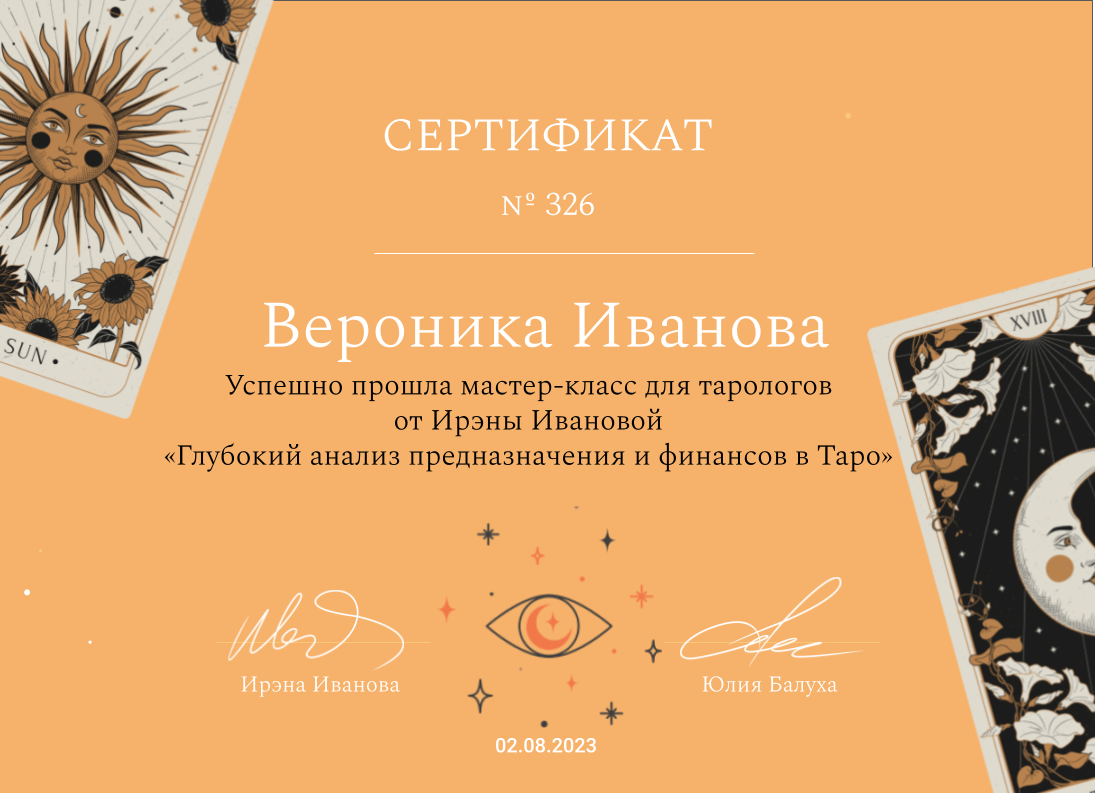
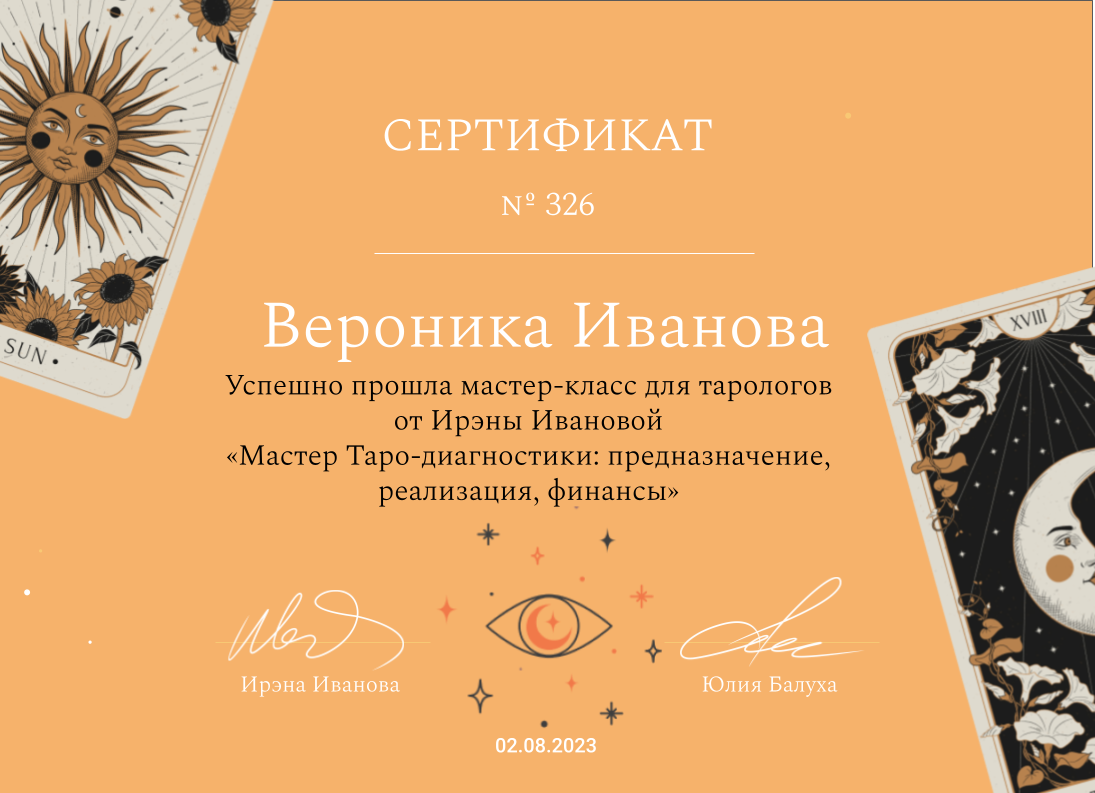
123
1

Changed region(s): [[0.1553, 0.5448, 0.8073, 0.6356]]

diff --git a/sites/taro-mini/index.html b/sites/taro-mini/index.html
@@ -65,8 +65,7 @@
                     </defs>
                 </svg>
                 <span class="hero__text">Мастер-класс для тарологов от<br> Ирэны Ивановой</span>
-                <h1 class="hero__title">«Глубокий анализ предназначения<br>
-                    и финансов в Таро»
+                <h1 class="hero__title">«Мастер Таро-диагностики: предназначение, реализация, финансы»
                 </h1>
                 <img src="./img/hero__main.png" alt="icon">
                 <span class="hero__text2">
@@ -86,8 +85,7 @@
             <div class="container">
                 <h2 class="program__title">Программа<br> мастер-класса</h2>
 
-                <h3 class="program__subtitle">«Анализ<br>
-                    предназначения»</h3>
+                <h3 class="program__subtitle">«Предназначение и реализация в Старших Арканах»</h3>
 
                 <ul class="program__list list-reset">
                     <li class="program__item">
@@ -108,12 +106,13 @@
                 </ul>
                 <span class="program__result">Результат:</span>
                 <ul class="program__result-list list-reset">
-                    <li class="program__result-item">Изучите Арканы, которые указывают на предназначение. Узнаете, о каких сферах реализации говорят архетипы, психотипы, а также архетипы Арканов.</li>
-                    <li class="program__result-item">Научитесь делать новые расклады на все случаи жизни и на любой запрос.</li>
+                    <li class="program__result-item">Изучите Арканы, которые указывают на предназначение;
+                        узнаете, о каких сферах реализации говорят архетипы и психотипы, а также архетипы Старших Арканов;</li>
+                    <li class="program__result-item">Научитесь новым раскладам на все случаи жизни и на любой запрос. </li>
                     <li class="program__result-item">Узнаете, есть ли у вас высшая миссия, поймете, в какой плоскости она лежит и что нужно, чтобы ей следовать. Найдете конкретную сферу своей реализации и научитесь помогать с этим своим кверентам.</li>
                 </ul>
 
-                <h3 class="program__subtitle">«Анализ финансов:<br> Старшие Арканы»</h3>
+                <h3 class="program__subtitle">«Предназначение и реализация в Младших Арканах»</h3>
 
                 <ul class="program__list list-reset">
                     <li class="program__item">
@@ -129,11 +128,13 @@
                 </ul>
                 <span class="program__result">Результат:</span>
                 <ul class="program__result-list list-reset">
-                    <li class="program__result-item">Изучите значения всех Старших Арканов в разрезе финансов, карьеры и бизнеса. Узнаете, на что указывают архетипы и психотипы в финансах.</li>
-                    <li class="program__result-item">Научитесь делать новые расклады на все случаи жизни и на любой запрос в сфере предназначения. </li>
-                    <li class="program__result-item">Найдете ответы на все свои вопросы, касающиеся финансов и карьеры . Узнаете, что нужно для того, чтобы достичь желаемого уровня дохода  и научитесь помогать с этим своим кверентам.</li>
+                    <li class="program__result-item">Изучите Арканы, которые указывают на предназначение;
+                        узнаете, о каких сферах реализации говорят архетипы и психотипы, а также архетипы Младших Арканов;</li>
+                    <li class="program__result-item">Научитесь новым раскладам на все случаи жизни и на любой запрос </li>
+                    <li class="program__result-item">Узнаете, есть ли у вас высшая миссия, поймете, в какой плоскости она лежит и что нужно, чтобы ей следовать;
+                        найдете конкретную сферу своей реализации и научитесь делать то же самое своим кверентам.</li>
                 </ul>
-                <h3 class="program__subtitle">«Анализ финансов:<br> Младшие Арканы»</h3>
+                <h3 class="program__subtitle program__subtitle_border">«Финансы в Таро»</h3>
 
                 <ul class="program__list list-reset">
                     <li class="program__item">
@@ -149,9 +150,12 @@
                 </ul>
                 <span class="program__result">Результат:</span>
                 <ul class="program__result-list list-reset">
-                    <li class="program__result-item">Изучите значения всех Младших Арканов в разрезе финансов, карьеры и бизнеса. Узнаете, на что указывают архетипы и психотипы в финансах.</li>
-                    <li class="program__result-item">Научитесь делать новые расклады на все случаи жизни и на любой запрос в сфере предназначения. </li>
-                    <li class="program__result-item">Найдете ответы на все свои вопросы, касающиеся финансов и карьеры . Узнаете, что нужно для того, чтобы достичь желаемого уровня дохода  и научитесь помогать с этим своим кверентам.</li>
+                    <li class="program__result-item">Изучите значения всех Старших и Младших Арканов в разрезе вопросов финансов, карьеры и бизнеса;</li>
+                    <li class="program__result-item">Узнаете, на что указывают архетипы и психотипы в финансах;
+                        научитесь новым раскладам на все случаи жизни и на любой запрос; </li>
+                    <li class="program__result-item">Найдете ответы на все свои вопросы, касаемые финансов и карьеры;</li>
+                    <li class="program__result-item">Узнаете, что нужно для того, чтобы достичь желаемого уровня дохода  и научитесь делать то же самое своим кверентам.</li>
+
                 </ul>
                 <span class="program__descr">*в зависимости от выбранного тарифа</span>
                 <div class="program__card">

diff --git a/sites/taro-mini/style/style.scss b/sites/taro-mini/style/style.scss
@@ -1489,3 +1489,43 @@ button:focus {
 .hero__text3:hover {
     color: #F27A4A;
 }
+
+.taro__cert {
+    margin-bottom: 20px;
+    max-width: 180px;
+    margin-right: auto;
+    margin-left: auto;
+    display: block;
+}
+
+.program__subtitle::before {
+    content: "";
+    border: 1px solid #9997E2;
+    max-width: 294px;
+    width: 100%;
+    height: 80px;
+    top: -15px;
+    left: -43px;
+    display: block;
+    border-radius: 15px;
+    border-top-left-radius: unset;
+    border-bottom-left-radius: unset;
+    position: absolute;
+    border-left: unset;
+}
+
+.program__subtitle_border::before {
+    content: "";
+    border: 1px solid #9997E2;
+    max-width: 294px;
+    width: 100%;
+    height: 50px;
+    top: -15px;
+    left: -43px;
+    display: block;
+    border-radius: 15px;
+    border-top-left-radius: unset;
+    border-bottom-left-radius: unset;
+    position: absolute;
+    border-left: unset;
+}

diff --git a/sites/taro-mini/style/style.css b/sites/taro-mini/style/style.css
@@ -1481,4 +1481,44 @@ button:focus {
 .hero__text3:hover {
   color: #F27A4A;
 }
+
+.taro__cert {
+  margin-bottom: 20px;
+  max-width: 180px;
+  margin-right: auto;
+  margin-left: auto;
+  display: block;
+}
+
+.program__subtitle::before {
+  content: "";
+  border: 1px solid #9997E2;
+  max-width: 294px;
+  width: 100%;
+  height: 80px;
+  top: -15px;
+  left: -43px;
+  display: block;
+  border-radius: 15px;
+  border-top-left-radius: unset;
+  border-bottom-left-radius: unset;
+  position: absolute;
+  border-left: unset;
+}
+
+.program__subtitle_border::before {
+  content: "";
+  border: 1px solid #9997E2;
+  max-width: 294px;
+  width: 100%;
+  height: 50px;
+  top: -15px;
+  left: -43px;
+  display: block;
+  border-radius: 15px;
+  border-top-left-radius: unset;
+  border-bottom-left-radius: unset;
+  position: absolute;
+  border-left: unset;
+}
 /*# sourceMappingURL=style.css.map */
